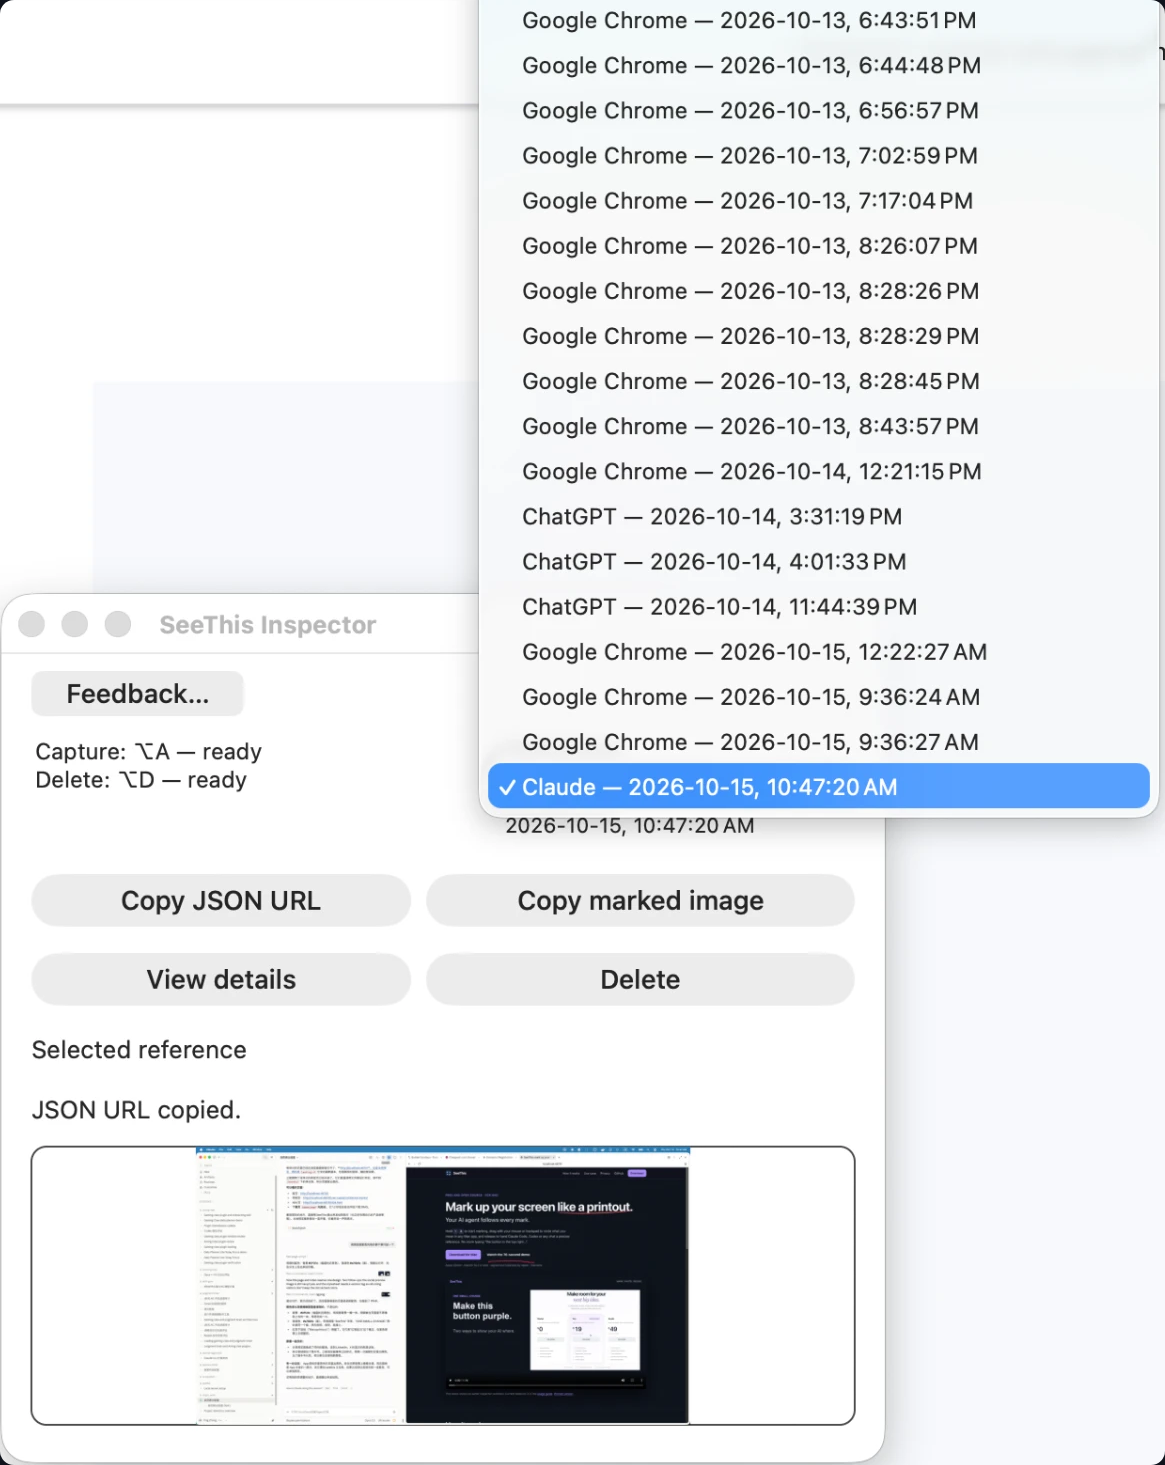
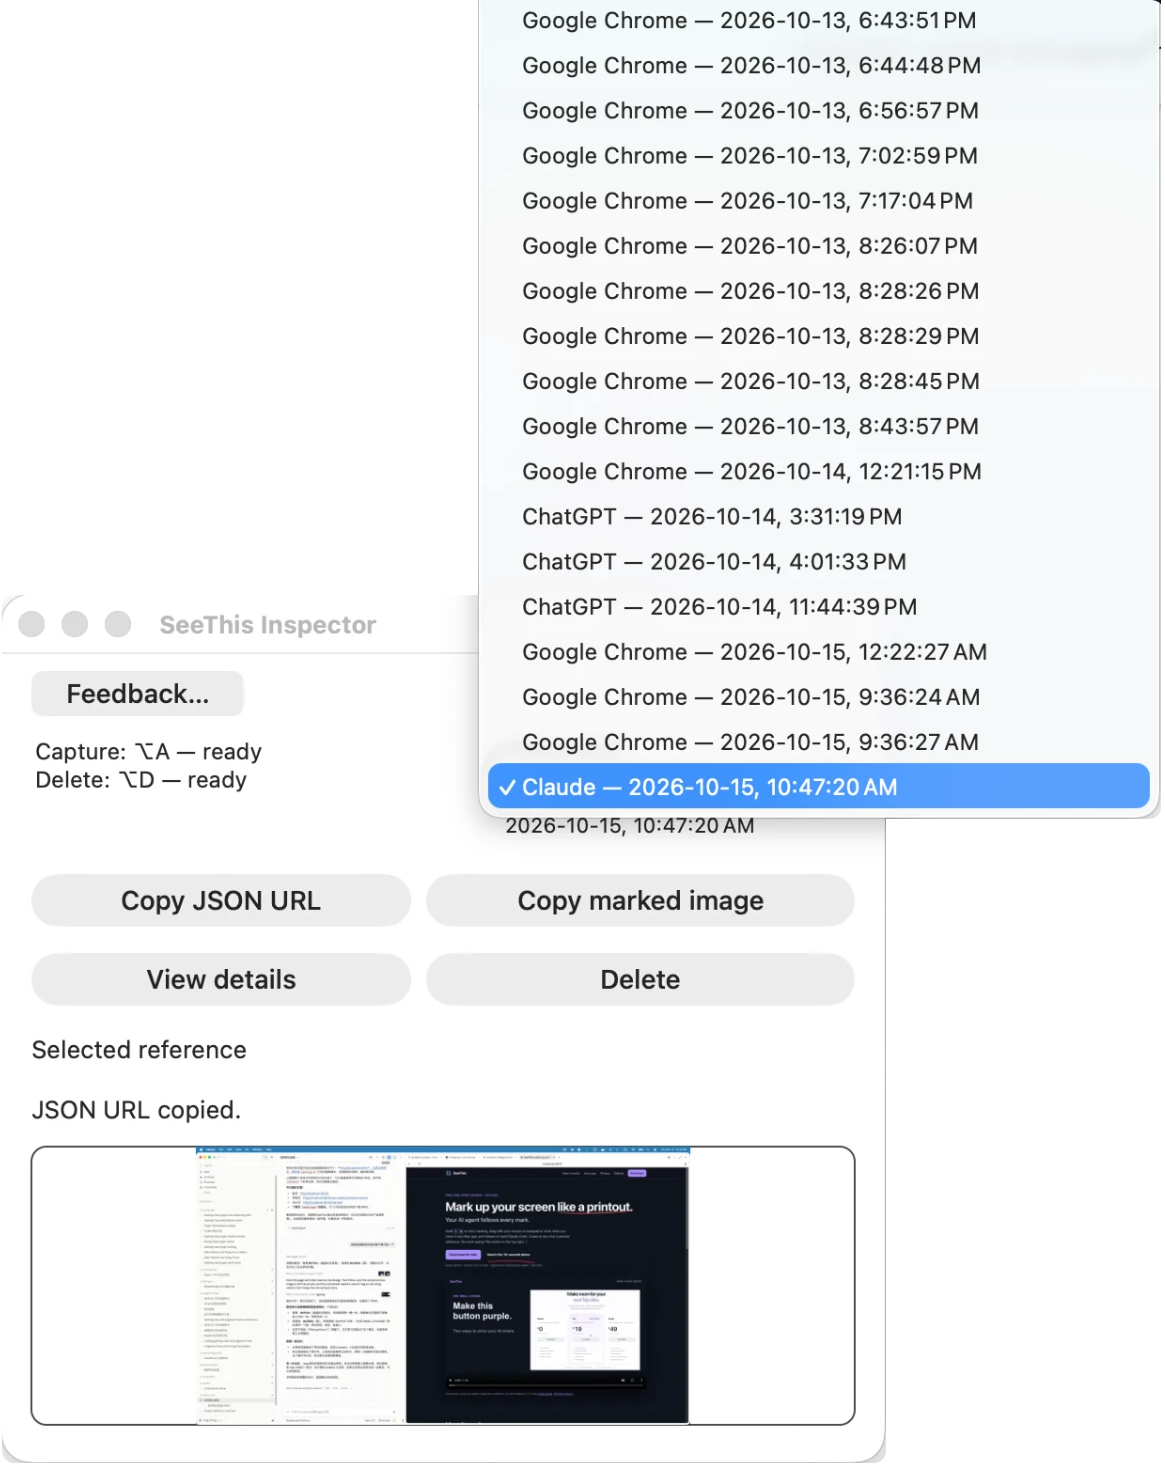
Fix Inspector section layout: inside the page container, two columns, background removed

diff --git a/index.html b/index.html
@@ -23,7 +23,7 @@
   <meta name="twitter:description" content="Mark up your screen like a printout. Your agent follows every mark.">
   <meta name="twitter:image" content="https://seethis.dev/assets/og.png">
 
-  <link rel="stylesheet" href="/assets/site.css?v=6">
+  <link rel="stylesheet" href="/assets/site.css?v=8">
 
   <script type="application/ld+json">
   {
@@ -109,12 +109,21 @@
     </section>
 
     <section id="history">
-      <h2>Find any reference again</h2>
-      <p class="section-lead">Every reference is kept on your Mac with the app it came from and the time you made it. Open Inspector, pick one from the list, and copy its link or marked image again, view its details, or delete it.</p>
-      <figure class="shot">
-        <img src="/assets/inspector-references.png" width="1165" height="1465" loading="lazy" alt="SeeThis Inspector with its reference list open: entries such as Google Chrome, ChatGPT and Claude, each with a date and time, plus Copy JSON URL, Copy marked image, View details and Delete buttons." style="max-width:560px">
-        <figcaption>The Inspector reference list from real use, October 13–15, 2026. One entry is cropped out for privacy.</figcaption>
-      </figure>
+      <div class="wrap split">
+        <div>
+          <h2>Find any reference again</h2>
+          <p class="section-lead">Every reference stays on your Mac, labeled with the app it came from and the time you made it. Open Inspector and pick one from the list.</p>
+          <ul class="checks">
+            <li>Copy its link again to use it in a new agent session.</li>
+            <li>Copy the marked image for web chats.</li>
+            <li>View the details, or delete references you no longer need.</li>
+          </ul>
+        </div>
+        <figure class="shot cutout">
+          <img src="/assets/inspector-references.png" width="1165" height="1465" loading="lazy" alt="SeeThis Inspector with its reference list open: entries such as Google Chrome, ChatGPT and Claude, each with a date and time, plus Copy JSON URL, Copy marked image, View details and Delete buttons.">
+          <figcaption>The Inspector reference list from real use, October 13–15, 2026. One entry is cropped out for privacy.</figcaption>
+        </figure>
+      </div>
     </section>
 
     <section id="usecase">

diff --git a/assets/site.css b/assets/site.css
@@ -102,6 +102,9 @@ details p { color: var(--ink-muted); margin: 10px 0 0; }
 
 figure.shot { margin: 8px 0 18px; }
 figure.shot img { display: block; width: 100%; height: auto; border-radius: var(--radius); border: 1px solid var(--line); }
+.split { display: grid; grid-template-columns: 1fr 1fr; gap: 40px; align-items: center; }
+.split figure.shot { margin: 0; }
+figure.shot.cutout img { border: 0; border-radius: 0; filter: drop-shadow(0 24px 48px rgba(0, 0, 0, 0.5)); }
 figure.shot figcaption { color: var(--ink-faint); font-size: 14px; margin-top: 10px; }
 
 /* Article pages */
@@ -118,7 +121,7 @@ figure.shot figcaption { color: var(--ink-faint); font-size: 14px; margin-top: 1
 .site-footer a:hover { color: var(--ink); }
 
 @media (max-width: 820px) {
-  .grid.three, .grid.two, .usecase { grid-template-columns: 1fr; }
+  .grid.three, .grid.two, .usecase, .split { grid-template-columns: 1fr; }
   .nav a:not(.btn) { display: none; }
   .hero { padding-top: 48px; }
 }

diff --git a/download/index.html b/download/index.html
@@ -8,7 +8,7 @@
   <meta name="robots" content="noindex">
   <link rel="canonical" href="https://seethis.dev/download/">
   <link rel="icon" href="/assets/icon.svg" type="image/svg+xml">
-  <link rel="stylesheet" href="/assets/site.css?v=6">
+  <link rel="stylesheet" href="/assets/site.css?v=8">
   <!-- Fallback redirect if JavaScript is off. Kept slower than the script so analytics can record the visit first. -->
   <meta http-equiv="refresh" content="3; url=https://github.com/amingclawdev/seethis/releases/download/v0.1.1-beta.1/SeeThis-0.1.1-beta.1-macos-arm64-release.dmg">
 </head>

diff --git a/use-cases/numbered-marks/index.html b/use-cases/numbered-marks/index.html
@@ -13,7 +13,7 @@
   <meta property="og:url" content="https://seethis.dev/use-cases/numbered-marks/">
   <meta property="og:image" content="https://seethis.dev/assets/og.png">
   <meta name="twitter:card" content="summary_large_image">
-  <link rel="stylesheet" href="/assets/site.css?v=6">
+  <link rel="stylesheet" href="/assets/site.css?v=8">
   <script type="application/ld+json">
   {
     "@context": "https://schema.org",

diff --git a/404.html b/404.html
@@ -6,7 +6,7 @@
   <title>Page not found | SeeThis</title>
   <meta name="robots" content="noindex">
   <link rel="icon" href="/assets/icon.svg" type="image/svg+xml">
-  <link rel="stylesheet" href="/assets/site.css?v=6">
+  <link rel="stylesheet" href="/assets/site.css?v=8">
 </head>
 <body>
   <main class="wrap article">
